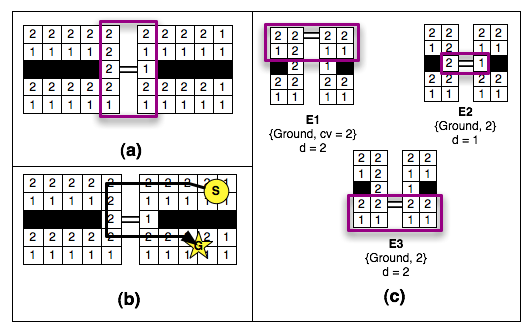
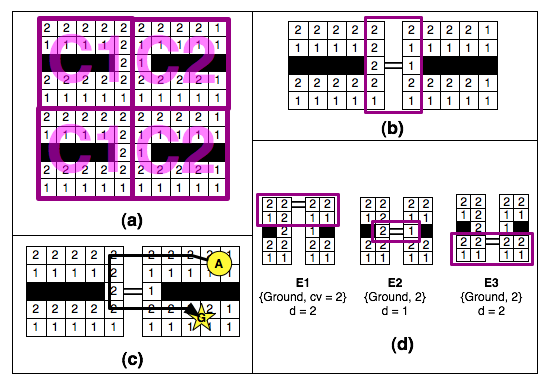
New prose describing updated entrance building approach.

diff --git a/papers/mapabstraction.tex b/papers/mapabstraction.tex
@@ -4,43 +4,51 @@ The annotated graph we have focused on creating to now is sufficient for a low-l
 Instead of planning every step, we would prefer to express a more general strategy using macro-operators.
 Our result from theorem {\ref{aha-theorem:reducibility} is key to the spatial abstraction described in this section. 
 \par \indent
-We extend the general process in \cite{botea04} which involves dividing a grid map into fixed-size square sections called \emph{clusters}. Figure \ref{aha-fig:clustersandentrances}(a) shows the result of this decomposition approach; we use clusters of size 5 to split our toy map into 4 adjacent sections.
-\par \indent
+We extend the general process in \cite{botea04} which involves dividing a grid map into fixed-size square sections called \emph{clusters}. 
 Adjacent pairs of clusters are connected to each other by \emph{entrances}, defined as obstacle-free transition areas of maximal size. 
-Each entrance is represented in the abstract graph by a pair of nodes connected with an undirected \emph{inter-edge} of weight 1.0. 
-Our approach is similar but requires as a parameter $C$, the set of all capabilities and $S$, the set of all agent sizes. 
-We thus begin by attempting to identify entrances $\forall c \in C$. 
-\par \indent
-In the original work entrances are discovered by considering only traversable tiles on the immediate border of each pair of adjacent clusters.
-This approach is adequate for small agents but produces incomplete graphs that do not accurately reflect the topography of the original map making them unsuitable for large agents.
-To address this problem we consider a larger set of tiles; up to $d \leq max(s) \in S$  inside each cluster.  
-We call this  the entrance \emph{depth}. 
-Starting at the pair of tiles at the beginning of each adjacent area we first extend the entrance inside each cluster up to $d \leq max(s) \in S$ or until an obstacle is encountered.  
-We then extend the entrance in an orthogonal direction, computing depth at each step, and continuing until one of three termination conditions occurs: the end of the adjacent area is reached, an obstacle is discovered or $d$ begins to increase or decrease in either cluster. 
-The last termination condition is important for detecting bottleneck regions where a cluster is partially divided by an obstacle near the border. 
-In these cases several entrances are required to reflect the local topography.
-\par \indent
-Once an entrance is found, we choose as the transition point the first pair of adjacent nodes which maximise clearance for $c$. 
-This latter metric, $cv_{entrance}$ is computed by taking the minimum clearance among each node pair in the entrance area and selecting the largest value from the set. 
-Thus, we add a new edge to the graph, $inter$ and assign it a clearance value $inter(c) = cv_{entrance}$. 
-\par \indent
-In figure \ref{aha-fig:clustersandentrances}(b) we present three entrances identified by scanning the border between clusters $c1$ and $c3$.
-Entrances \emph{E1} and \emph{E2}, each of which span only part of the border area, are discovered using the $\lbrace Ground \rbrace$ and $\lbrace Trees \rbrace$ capabilities respectively. 
-\emph{E3} meanwhile, which spans the whole border area, is discovered using the $\lbrace Ground \vee Trees \rbrace$ capability. 
-The connected tiles represent the locations of the subsequent transition points; the final result is shown in \ref{aha-fig:clustersandentrances}(c). 
-Note that \emph{E1} and \emph{E3} are incident on the same pair of nodes in the abstract graph. This is due to our  strategy of actively attempting to re-use any existing nodes from the abstract graph. 
-
+Each entrance has one or two transition points (depending on its size) which are represented in the abstract graph by a pair of nodes connected with an undirected \emph{inter-edge} of weight 1.0. 
+In Figure \ref{aha-fig:clustersandentrances}(a) we use clusters of size 5 to split our toy map into 4 adjacent sections. 
+The highlighted region in Figure \ref{aha-fig:clustersandentrances} represents the maximally-sized entrance area between two clusters $\lbrace C1, C2 \rbrace$ while the connected tiles represent the transition point.
 \begin{figure}[htbp]
         \caption{\emph{Building clusters and identifying entrances} }
         \begin{center}
-                        \includegraphics[scale=0.25]{diagrams/identifying_entrances.png}
+                        \includegraphics[scale=0.40]{diagrams/identifying_entrances.png}
         \end{center}
         \label{aha-fig:clustersandentrances}
 \end{figure}
-
-The final step in the decomposition involves attempting to add to the abstract graph a set of \emph{intra-edges} for each pair of abstract nodes inside a cluster. We achieve this by running multiple AA* searches $\forall (c, s) : c \in C, s \in S$.
 \par \indent
-Once a path is found we annotate the new edge, $intra$, with the capability and clearance parameters used by AA* and set its weight equal to the cost of the path. The algorithm terminates when all clusters have been considered. 
+In the origial work each entrance area consists of a single line of tiles from each adjacent cluster and thus has an implicit \emph{depth}, $d = 1$.
+This approach is adequate for small agents but unsuitable for larger agents as it produces incomplete abstract graphs. 
+To demonstrate the validity of this claim, consider the example in Figure \ref{aha-fig:clustersandentrances}(c). 
+Here we show a large agent $A$ of size 2 that begins in the same cluster as the goal location. 
+Notice that there exists a valid solution to this problem as shown. 
+Notice further however that in order for $A$ to reach the goal it cannot use the centre transition point as the associated clearance values are too small.
+By limiting depth to $d = 1$ the entrance-building technique fails to detect the bottleneck region and means that not all valid paths in the low-level graph are found in the abstract graph.
+To address this problem we consider a larger set of tiles; up to $d \leq max(s) \in S$  inside each cluster.
+\par \indent
+Starting at the pair of tiles at the beginning of each adjacent area we first extend the entrance symmetrically inside each cluster up to $d \leq max(s) \in S$ or until an obstacle is encountered for some capability $c \in C$.
+We then extend the entrance's \emph{size} in an orthogonal direction, along the common border, computing depth at each step and continuing until one of three termination conditions occurs: the end of the adjacent area is reached, an obstacle is discovered or $d$ begins to increase or decrease in either cluster. 
+The latter is important for detecting bottleneck regions such as those in Figure \ref{aha-fig:clustersandentrances}(c).
+\par \indent
+Once an entrance is found, we choose as the transition point the first pair of adjacent nodes in each cluster which maximise clearance for $c$.
+This latter metric, $cv_{entrance}$ is computed by taking the minimum clearance among each pair of adjacent nodes in the entrance area and selecting the largest value from the set. 
+Thus, we add a new edge to the graph, $e_{inter}$ and annotate it with a single capability and corresponding clearance value, $e_{inter}(c) = cv_{entrance}$. 
+The algorithm repeats $\forall c \in C$ and terminates when all adjacent clusters have been considered. 
+This ensures we identify all possible entrances for each available capability.
+\par \indent
+In figure \ref{aha-fig:clustersandentrances}(d) we present three entrances identified by scanning the border between clusters $C1$ and $C2$.
+Entrances \emph{E1} and \emph{E3}, both of depth 2, are found at the beginning and end of the adjacent area; before and after the bottleneck region. 
+Each resultant inter-edge is thus annotated as $\lbrace Ground, 2 \rbrace$ corresponding to the capability and maximal clearance of the entrance area.
+\emph{E2} is a smaller entrance identified due to the change in depth, from 2 to 1. 
+It also has smaller maximal clearance so its inter-edge is thus annotated as $\lbrace Ground, 1 \rbrace$.
+In some scenarios the same location may correspond to a maximally sized transition point for several capabilities. 
+To keep the size of the abstract graph small we actively attempt to re-use existing nodes and thus allow multiple edges between the same nodes.  
+\par \indent
+The final step in the decomposition involves attempting to add to the abstract graph a set of \emph{intra-edges} for each pair of abstract nodes inside a cluster. 
+We achieve this by running multiple AA* searches $\forall (c, s) : c \in C, s \in S$.
+\par \indent
+Once a path is found we annotate the new edge, $e_{intra}$, with the capability and clearance parameters used by AA* and set its weight equal to the cost of the path. 
+The algorithm terminates when all clusters have been considered. 
 \par \indent
 We thus construct an abstract \emph{multi-graph} in which each edge $e$ is annotated with a single capability $c_{e}$ and associated clearance value $cv_{e}$. These represent the minimum capability set that an agent $a$ must posess to traverse the edge and the agent's maximum size, $c_{a}$ and $s_{a}$ respectively. More succinctly:
 $$ e(c_{a}) = cv_{e} \geq s_{a} : c_{a} \in c_{e} \in C$$
